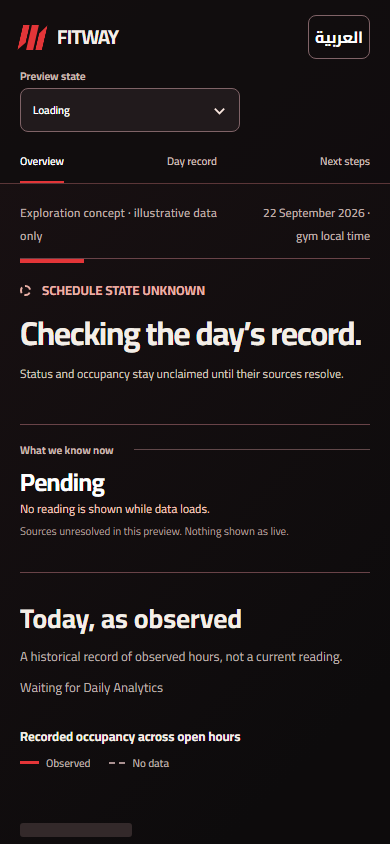
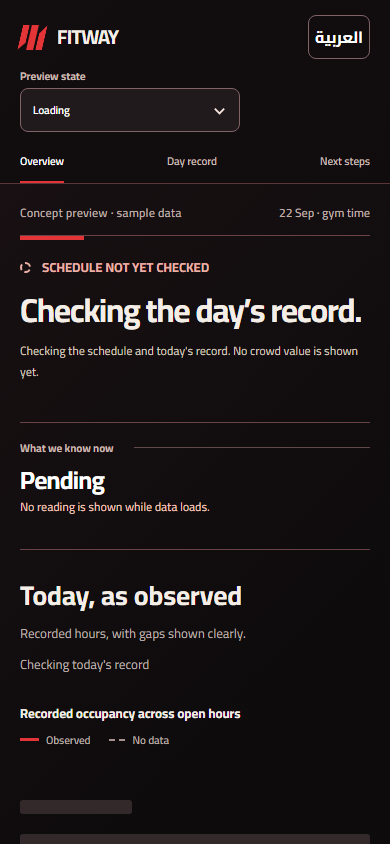
Use plain Owner language in Evidence Line concept

diff --git a/design-research/owner-composition-exploration-r02/direction-01/app.js b/design-research/owner-composition-exploration-r02/direction-01/app.js
@@ -7,12 +7,12 @@ const labels = {
 		dayRecord: "Day record",
 		nextSteps: "Next steps",
 		previewState: "Preview state",
-		conceptNote: "Exploration concept · illustrative data only",
-		date: "22 September 2026",
-		gymTime: "gym local time",
+		conceptNote: "Concept preview · sample data",
+		date: "22 Sep",
+		gymTime: "gym time",
 		trustHeading: "What we know now",
 		dayHeading: "Today, as observed",
-		daySub: "A historical record of observed hours, not a current reading.",
+		daySub: "Recorded hours, with gaps shown clearly.",
 		chartTitle: "Recorded occupancy across open hours",
 		observed: "Observed",
 		missing: "No data",
@@ -32,61 +32,56 @@ const labels = {
 		governance: "Governance",
 		governanceDesc:
 			"Review access, settings, and activity in their dedicated areas.",
-		footer: "Concept direction only · no real gym data and no product change",
+		footer: "Concept preview · sample data",
 		populated: "Recorded day",
-		current: "Separate snapshot",
+		current: "Sample reading",
 		closed: "Closed",
 		noReadings: "No readings",
 		loading: "Loading",
 		error: "Error",
-		openBySchedule: "OPEN BY SAMPLE SCHEDULE",
-		closedBySchedule: "CLOSED BY SAMPLE SCHEDULE",
-		scheduleUnknown: "SCHEDULE STATE UNKNOWN",
+		openBySchedule: "OPEN BY SCHEDULE",
+		closedBySchedule: "CLOSED BY SCHEDULE",
+		scheduleUnknown: "SCHEDULE NOT YET CHECKED",
 		populatedTitle: "Open by schedule. Current crowd unknown.",
-		currentTitle: "Open by schedule. A separate snapshot is available.",
+		currentTitle: "Open by schedule. A recent sample reading is available.",
 		closedTitle: "Closed today. No current crowd reading.",
 		noReadingsTitle: "Open by schedule. No readings yet.",
 		loadingTitle: "Checking the day’s record.",
 		errorTitle: "The day’s record could not load.",
 		populatedExplain:
-			"The Daily Analytics response covers part of the business day. It does not contain a live snapshot or freshness, so it cannot answer how crowded the gym is now.",
+			"Today's chart shows recorded readings, not a current crowd count.",
 		currentExplain:
-			"This fixture adds a distinct operational snapshot. The day chart still describes historical observations only.",
+			"This separate sample reading was observed at 21:14. The chart below still shows the recorded day.",
 		closedExplain:
 			"The sample schedule marks this period closed. Occupancy and crowd band are withheld.",
 		noReadingsExplain:
-			"The sample schedule is open, but Daily Analytics has no observed occupancy minutes. Zero has not been inferred.",
+			"The gym is scheduled open, but no readings were recorded. An empty chart does not mean zero.",
 		loadingExplain:
-			"Status and occupancy stay unclaimed until their sources resolve.",
+			"Checking the schedule and today's record. No crowd value is shown yet.",
 		errorExplain:
-			"Daily Analytics failed in this fixture. No historical value is carried forward as current.",
+			"Today's record could not load. No older value is shown as current.",
 		unavailable: "Unavailable",
-		unavailableDetail: "Daily history has no current reading.",
+		unavailableDetail: "",
 		noValue: "No current value",
 		closedDetail: "Closed periods have no count or crowd band.",
 		pending: "Pending",
 		pendingDetail: "No reading is shown while data loads.",
 		errorValue: "Unavailable",
-		errorDetail:
-			"The historical request failed; current crowd is still unknown.",
+		errorDetail: "Current crowd is also unknown.",
 		currentBand: "Moderate",
 		currentApprox: "approximate count",
-		currentDetail: "Fresh within the illustrative fixture clock.",
-		currentSource:
-			"Separate sample staff.operationalSnapshot · observed 21:14 · fixture clock 21:15. This is not a real live reading.",
-		dailySource: "admin.analytics.daily · historical only.",
-		closedSource:
-			"Source: illustrative schedule state plus closed historical buckets.",
-		noReadingsSource:
-			"Source: illustrative schedule state; Daily Analytics has missing buckets only.",
-		loadingSource: "Sources unresolved in this preview. Nothing shown as live.",
-		errorSource:
-			"Historical query error in this preview. No last-known value is asserted.",
+		currentDetail: "Sample checked at 21:15.",
+		currentSource: "",
+		dailySource: "",
+		closedSource: "",
+		noReadingsSource: "",
+		loadingSource: "",
+		errorSource: "",
 		businessDay: "Business day · 22 Sep 2026",
 		closedDay: "Scheduled closed period · 22 Sep 2026",
 		noReadingsDay: "Open period · 22 Sep 2026",
-		loadingDay: "Waiting for Daily Analytics",
-		errorDay: "Daily Analytics request failed",
+		loadingDay: "Checking today's record",
+		errorDay: "Today's record unavailable",
 		coverage: "Observed coverage",
 		coverageValue: "240 of 300 open minutes",
 		coverageNote: "80% of scheduled open minutes; gaps remain visible.",
@@ -99,7 +94,7 @@ const labels = {
 		chartEmptyClosed: "Closed period — no occupancy curve",
 		chartEmptyMissing: "No observed minutes to chart",
 		chartEmptyError: "The chart is unavailable while the request has failed",
-		chartEmptyLoading: "Loading historical observations",
+		chartEmptyLoading: "Loading recorded hours",
 		selectPoint: "Select a point to read its recorded value.",
 		pointDetail: (time, count) => `${time} · recorded occupancy ${count}`,
 		pointAria: (time, count) =>
@@ -115,7 +110,7 @@ const labels = {
 		none: "No observed interval",
 		errorEvidence: "No historical summary while the request has failed",
 		loadingEvidence: "Historical summary pending",
-		sourceLabel: "Source boundary",
+		sourceLabel: "Today's record",
 	},
 	ar: {
 		skip: "انتقل إلى المحتوى",
@@ -125,12 +120,12 @@ const labels = {
 		dayRecord: "سجل اليوم",
 		nextSteps: "المتابعة",
 		previewState: "حالة المعاينة",
-		conceptNote: "تصوّر استكشافي · بيانات توضيحية فقط",
-		date: "22 سبتمبر 2026",
+		conceptNote: "تصوّر · بيانات توضيحية",
+		date: "22 سبتمبر",
 		gymTime: "بتوقيت النادي",
 		trustHeading: "ما الذي نعرفه الآن",
 		dayHeading: "اليوم كما رُصد",
-		daySub: "سجلّ تاريخي للساعات المرصودة، وليس قراءة لحظية.",
+		daySub: "الساعات المرصودة مع إظهار الفجوات بوضوح.",
 		chartTitle: "الإشغال المرصود عبر ساعات العمل",
 		observed: "مرصود",
 		missing: "لا توجد بيانات",
@@ -148,56 +143,53 @@ const labels = {
 		operationsDesc: "افحص صحة الأجهزة والتنبيهات في المسار التشغيلي.",
 		governance: "الإدارة",
 		governanceDesc: "راجع الوصول والإعدادات وسجل النشاط في مواضعها المخصصة.",
-		footer: "اتجاه تصوّري فقط · لا يعرض بيانات نادٍ حقيقية ولا يغيّر المنتج",
+		footer: "معاينة تصورية · بيانات توضيحية",
 		populated: "يوم مرصود",
-		current: "لقطة منفصلة",
+		current: "قراءة توضيحية",
 		closed: "مغلق",
 		noReadings: "لا قراءات",
 		loading: "جارٍ التحميل",
 		error: "خطأ",
-		openBySchedule: "مفتوح حسب الجدول التوضيحي",
-		closedBySchedule: "مغلق حسب الجدول التوضيحي",
-		scheduleUnknown: "حالة الجدول غير معروفة",
+		openBySchedule: "مفتوح حسب الجدول",
+		closedBySchedule: "مغلق حسب الجدول",
+		scheduleUnknown: "لم يُتحقق من الجدول بعد",
 		populatedTitle: "مفتوح حسب الجدول. الازدحام الحالي غير معروف.",
-		currentTitle: "مفتوح حسب الجدول. تتوفر لقطة تشغيلية منفصلة.",
+		currentTitle: "مفتوح حسب الجدول. تتوفر قراءة توضيحية حديثة.",
 		closedTitle: "مغلق اليوم. لا توجد قراءة حالية للازدحام.",
 		noReadingsTitle: "مفتوح حسب الجدول. لا توجد قراءات بعد.",
 		loadingTitle: "جارٍ التحقق من سجل اليوم.",
 		errorTitle: "تعذّر تحميل سجل اليوم.",
-		populatedExplain:
-			"تغطي استجابة تحليلات اليوم جزءًا من يوم العمل. لا تتضمن لقطة لحظية أو وقت تحديثها، لذلك لا تحدد ازدحام النادي الآن.",
+		populatedExplain: "يعرض مخطط اليوم قراءات سابقة، ولا يبيّن الازدحام الحالي.",
 		currentExplain:
-			"تضيف هذه الحالة لقطة تشغيلية منفصلة. يظل مخطط اليوم وصفًا للمشاهدات التاريخية فقط.",
+			"رُصدت هذه القراءة التوضيحية المنفصلة عند 21:14. يبقى المخطط سجلًا لليوم.",
 		closedExplain:
 			"يشير الجدول التوضيحي إلى إغلاق هذه الفترة. لا يُعرض عدد إشغال أو مستوى ازدحام.",
 		noReadingsExplain:
-			"الجدول التوضيحي مفتوح، لكن تحليلات اليوم لا تتضمن دقائق إشغال مرصودة. لم نفترض أن القيمة صفر.",
-		loadingExplain: "لا يُنسب وضع أو إشغال إلى المصادر قبل اكتمال تحميلها.",
-		errorExplain:
-			"فشل طلب تحليلات اليوم في هذه الحالة. لا تُقدَّم قيمة تاريخية بوصفها قراءة حالية.",
+			"النادي مفتوح حسب الجدول، لكن لا توجد قراءات مرصودة. غياب القراءات لا يعني أن العدد صفر.",
+		loadingExplain: "جارٍ التحقق من الجدول وسجل اليوم. لا تُعرض قيمة ازدحام بعد.",
+		errorExplain: "تعذّر تحميل سجل اليوم. لا تُعرض قراءة أقدم على أنها حالية.",
 		unavailable: "غير متاح",
-		unavailableDetail: "لا قراءة حالية في سجلّ اليوم.",
+		unavailableDetail: "",
 		noValue: "لا توجد قيمة حالية",
 		closedDetail: "لا يحمل وقت الإغلاق عددًا أو مستوى ازدحام.",
 		pending: "قيد الانتظار",
 		pendingDetail: "لا تُعرض قراءة أثناء التحميل.",
 		errorValue: "غير متاح",
-		errorDetail: "فشل طلب السجل التاريخي؛ الازدحام الحالي غير معروف أيضًا.",
+		errorDetail: "الازدحام الحالي غير معروف أيضًا.",
 		currentBand: "متوسط",
 		currentApprox: "عدد تقريبي",
-		currentDetail: "حديثة وفق ساعة الحالة التوضيحية.",
-		currentSource:
-			"لقطة توضيحية منفصلة من staff.operationalSnapshot · رُصدت 21:14 · ساعة الحالة 21:15. ليست قراءة حية حقيقية.",
-		dailySource: "admin.analytics.daily · سجلّ تاريخي فقط.",
-		closedSource: "المصدر: جدول توضيحي مع فترات تاريخية مغلقة.",
-		noReadingsSource: "المصدر: جدول توضيحي؛ فترات تحليلات اليوم مفقودة فقط.",
-		loadingSource: "المصادر قيد التحميل في هذه المعاينة. لا تُعرض قيمة حية.",
-		errorSource: "خطأ في طلب السجل التاريخي. لا نفترض آخر قيمة معروفة.",
+		currentDetail: "قراءة توضيحية تم التحقق منها عند 21:15.",
+		currentSource: "",
+		dailySource: "",
+		closedSource: "",
+		noReadingsSource: "",
+		loadingSource: "",
+		errorSource: "",
 		businessDay: "يوم العمل · 22 سبتمبر 2026",
 		closedDay: "فترة مغلقة حسب الجدول · 22 سبتمبر 2026",
 		noReadingsDay: "فترة عمل · 22 سبتمبر 2026",
-		loadingDay: "بانتظار تحليلات اليوم",
-		errorDay: "فشل طلب تحليلات اليوم",
+		loadingDay: "جارٍ التحقق من سجل اليوم",
+		errorDay: "سجل اليوم غير متاح",
 		coverage: "تغطية الرصد",
 		coverageValue: "240 من 300 دقيقة عمل",
 		coverageNote: "80% من دقائق العمل المجدولة؛ تبقى الفجوات ظاهرة.",
@@ -226,7 +218,7 @@ const labels = {
 		none: "لا توجد فترة مرصودة",
 		errorEvidence: "لا ملخص تاريخي بعد فشل الطلب",
 		loadingEvidence: "ملخص السجل التاريخي قيد التحميل",
-		sourceLabel: "حدود المصدر",
+		sourceLabel: "سجل اليوم",
 	},
 };
 
@@ -394,7 +386,7 @@ function render() {
 						? "errorDetail"
 						: "unavailableDetail";
 		$("current-reading").innerHTML =
-			`<p class="reading-value">${t[valueKey]}</p><p class="reading-detail">${t[detailKey]}</p>`;
+			`<p class="reading-value">${t[valueKey]}</p>${t[detailKey] ? `<p class="reading-detail">${t[detailKey]}</p>` : ""}`;
 	}
 	const sourceKey = {
 		populated: "dailySource",
@@ -405,6 +397,7 @@ function render() {
 		error: "errorSource",
 	}[fixture];
 	setText("current-source", t[sourceKey]);
+	$("current-source").hidden = !t[sourceKey];
 	const contextKey =
 		fixture === "closed"
 			? "closedDay"

diff --git a/design-research/owner-composition-exploration-r02/direction-01/index.html b/design-research/owner-composition-exploration-r02/direction-01/index.html
@@ -33,8 +33,8 @@
 
     <main id="main" tabindex="-1">
       <div class="intro">
-        <p class="concept-note" data-i18n="conceptNote">تصوّر استكشافي · بيانات توضيحية فقط</p>
-        <p class="date-line"><span data-i18n="date">22 سبتمبر 2026</span><span aria-hidden="true"> · </span><span data-i18n="gymTime">بتوقيت النادي</span></p>
+        <p class="concept-note" data-i18n="conceptNote">تصوّر · بيانات توضيحية</p>
+        <p class="date-line"><span data-i18n="date">22 سبتمبر</span><span aria-hidden="true"> · </span><span data-i18n="gymTime">بتوقيت النادي</span></p>
       </div>
       <section class="orientation" aria-labelledby="orientation-title">
         <div class="orientation-main">
@@ -56,7 +56,7 @@
         <div class="section-head">
           <div>
             <h2 id="day-heading" data-i18n="dayHeading">اليوم كما رُصد</h2>
-            <p class="section-sub" data-i18n="daySub">سجلّ تاريخي للساعات المرصودة، وليس قراءة لحظية.</p>
+            <p class="section-sub" data-i18n="daySub">الساعات المرصودة مع إظهار الفجوات بوضوح.</p>
           </div>
           <p class="day-context" id="day-context"></p>
         </div>
@@ -89,7 +89,7 @@
         </div>
       </section>
     </main>
-    <footer><span>FITWAY</span><span data-i18n="footer">اتجاه تصوّري فقط · لا يعرض بيانات نادٍ حقيقية ولا يغيّر المنتج</span></footer>
+    <footer><span>FITWAY</span><span data-i18n="footer">معاينة تصورية · بيانات توضيحية</span></footer>
   </div>
 </body>
 </html>

diff --git a/design-research/owner-composition-exploration-r02/direction-01/concept.md b/design-research/owner-composition-exploration-r02/direction-01/concept.md
@@ -6,7 +6,7 @@
 
 A training floor's single, continuous readout: near-black wall, FITWAY red as an active line, warm light on the text, and no repeated boxed dashboard tiles. The page reads like a calm evidence register. A long horizontal boundary separates *what can be said about now* from *what was recorded today*. The chart is an open field within that same surface, not a competing card. Governance moves to quiet disclosure rows after orientation.
 
-The first viewport states the schedule state and the current-reading trust status in words. The bold headline is intentionally factual. Red carries identity and chart emphasis; unavailable, closed, loading, error, and missing history each have distinct text and non-color cues. English and Arabic receive natural word order; the historical curve runs left-to-right in English and right-to-left in Arabic.
+The first viewport states the schedule state and the current-reading trust status in words. Visible copy uses Owner language; API names and payload mechanics stay in this brief. The bold headline is intentionally factual. Red carries identity and chart emphasis; unavailable, closed, loading, error, and missing history each have distinct text and non-color cues. English and Arabic receive natural word order; the historical curve runs left-to-right in English and right-to-left in Arabic.
 
 ## Data boundary and fixtures
 
